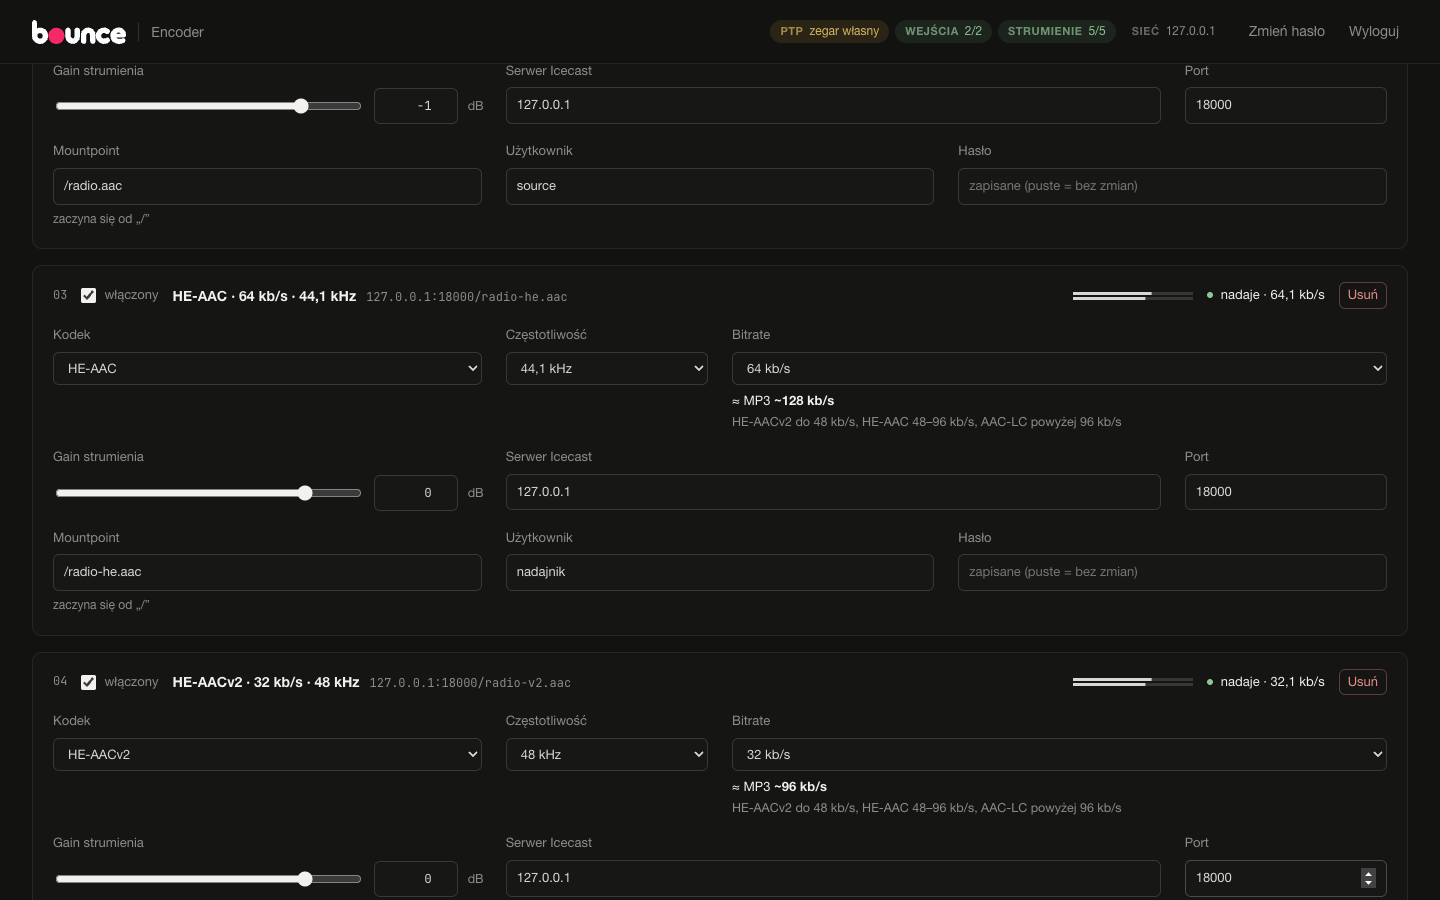
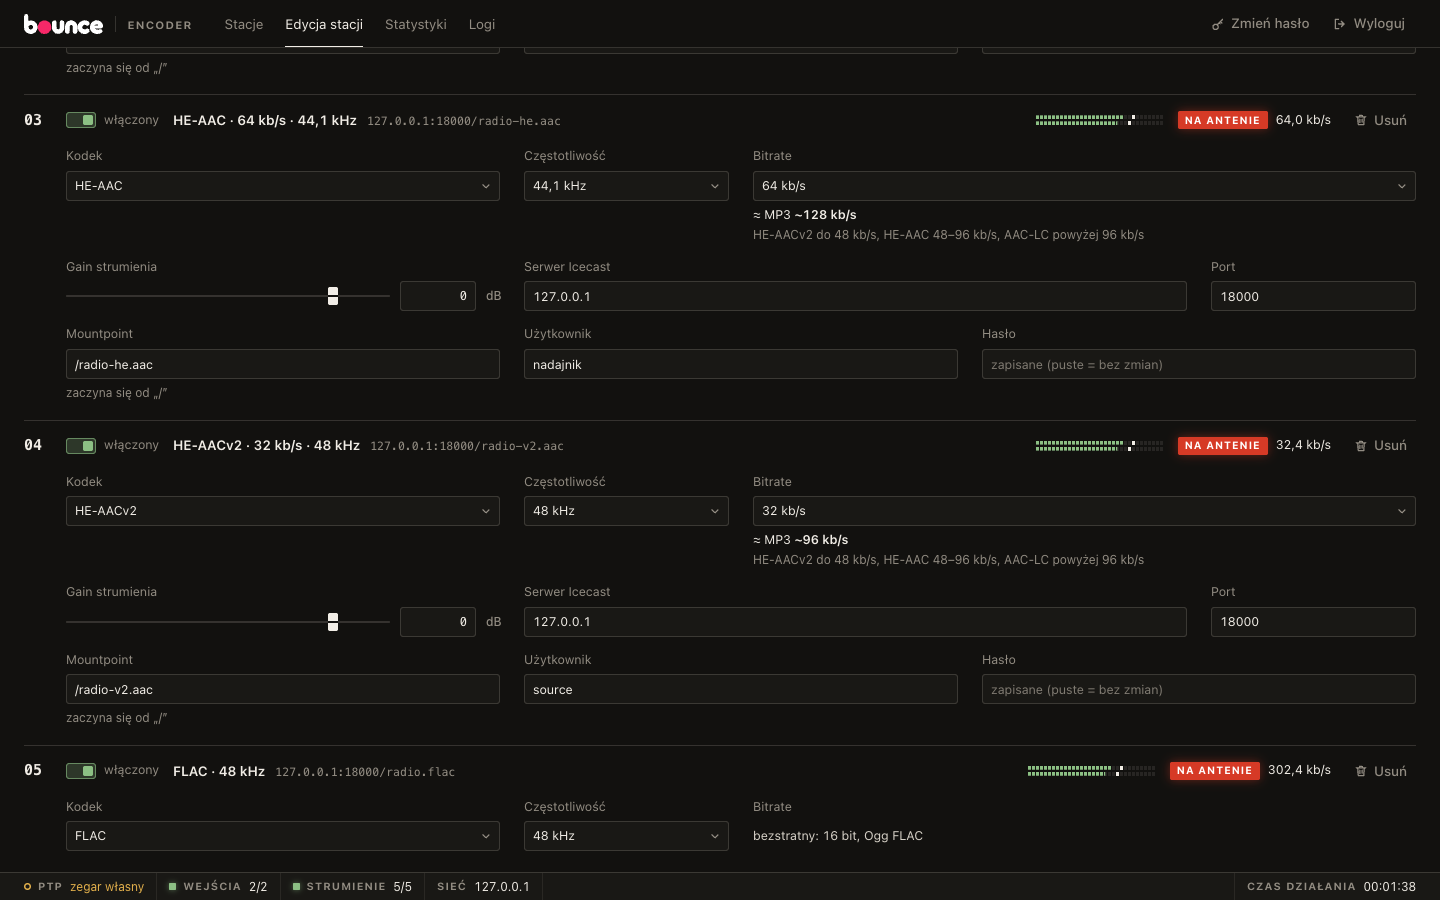
BounceAES Master 1.2.3 and Bounce Encoder 1.0.2: new panel look
BounceAES Master 1.2.3 in CMakeLists.txt, core constants, bridge, tray and
service .rc and the NSIS installer; Bounce Encoder 1.0.2 in version.hpp,
the Icecast User-Agent, encoder .rc, tray .rc and .manifest, the NSIS
installer and the version tests. README, INSTALL.md and ENCODER-INSTALL.md
say what is new (the new panel look, no change in behaviour) and now point
to the bottom status strip; the four encoder screenshots in
docs/images/encoder/ show the new panel.

diff --git a/tests/test_encoder_http.cpp b/tests/test_encoder_http.cpp
@@ -158,7 +158,7 @@ TEST_CASE("encoder HTTP: login, sessions and 401 without a session") {
   const json h = json::parse(health->body);
   CHECK(h["service"] == "ok");
   CHECK(h["product"] == "Bounce Encoder");
-  CHECK(h["version"] == "1.0.1");
+  CHECK(h["version"] == "1.0.2");
 
   const json state = json::parse(f.client->Get("/api/auth-state")->body);
   CHECK(state["password_set"] == false);
@@ -552,7 +552,7 @@ TEST_CASE("encoder HTTP: status of stations, inputs, streams and PTP") {
       },
       10000));
   CHECK(s["running"] == true);
-  CHECK(s["version"] == "1.0.1");
+  CHECK(s["version"] == "1.0.2");
   CHECK(s["ptp"]["enabled"] == false);
   CHECK(s["ptp"]["state"] == "disabled");
   CHECK(s["ptp"]["free_run"] == true);

diff --git a/encoder/src/icecast_client.cpp b/encoder/src/icecast_client.cpp
@@ -30,7 +30,7 @@ constexpr int kRetryResetMs = 10000;       // streaming this long starts the ret
 constexpr int kSendStallMs = 10000;        // no byte accepted by the socket: the server is dead
 constexpr int kSliceMs = 50;               // longest wait before stopping_ is checked again
 constexpr size_t kMaxResponseHead = 8192;
-constexpr const char* kUserAgent = "Bounce Encoder/1.0.1";
+constexpr const char* kUserAgent = "Bounce Encoder/1.0.2";
 
 constexpr const char* kErrNoName = "nie można znaleźć serwera ";  // + host
 constexpr const char* kErrNoAnswer = "serwer nie odpowiada";

diff --git a/core/include/bam/constants.hpp b/core/include/bam/constants.hpp
@@ -25,6 +25,6 @@ inline constexpr const char* kPtpGroup = "224.0.1.129";
 inline constexpr int kMulticastTtl = 15;
 
 inline constexpr const char* kProductName = "BounceAES Master";
-inline constexpr const char* kVersion = "1.2.2";
+inline constexpr const char* kVersion = "1.2.3";
 
 }  // namespace bam

diff --git a/encoder/include/bam/encoder/version.hpp b/encoder/include/bam/encoder/version.hpp
@@ -4,6 +4,6 @@
 namespace bam::encoder {
 
 inline constexpr const char* kEncoderProductName = "Bounce Encoder";
-inline constexpr const char* kEncoderVersion = "1.0.1";
+inline constexpr const char* kEncoderVersion = "1.0.2";
 
 }  // namespace bam::encoder

diff --git a/docs/ENCODER-INSTALL.md b/docs/ENCODER-INSTALL.md
@@ -116,7 +116,7 @@ Lista pokazuje dla każdej stacji:
 - przełącznik włączenia: działa od razu, bez zapisywania. Wyłączona stacja rozłącza wszystkie swoje strumienie;
 - stan („działa” i czas działania), miernik sygnału stacji i szczyt w dBFS;
 - wejścia: nazwa, adres strumienia AES67, gain i opóźnienie, miernik, stan („sygnał”, „brak sygnału” albo błąd);
-- strumienie: kodek, bitrate i częstotliwość, serwer i mountpoint, gain, miernik, stan („nadaje” z bitrate'em, „łączenie…”, komunikat błędu z rozdziału 9).
+- strumienie: kodek, bitrate i częstotliwość, serwer i mountpoint, gain, miernik, stan (lampka **NA ANTENIE** z bitrate'em, „łączenie…”, komunikat błędu z rozdziału 9).
 
 **Dodaj stację** otwiera edytor nowej stacji. **Edytuj** otwiera edytor istniejącej, **Usuń** usuwa stację od razu (po potwierdzeniu) i rozłącza jej strumienie.
 
@@ -257,7 +257,7 @@ Po błędzie strumień próbuje ponownie po 1, 2, 5 i 10 s, potem co 10 s, bez k
 
 ## 11. PTP, sieć i strojenie Windows
 
-- Bounce Encoder jest zawsze **PTP slave**: podąża za grandmasterem w wybranej domenie i nigdy nie nadaje zegara. Pasek u góry panelu pokazuje „PTP: zsynchronizowany”, „synchronizacja…” albo „zegar własny”.
+- Bounce Encoder jest zawsze **PTP slave**: podąża za grandmasterem w wybranej domenie i nigdy nie nadaje zegara. Pasek stanu na dole panelu pokazuje „PTP: zsynchronizowany”, „synchronizacja…” albo „zegar własny”.
 - **Bez synchronizacji PTP odbiór zwykle nie działa.** Bez mastera (albo zanim zegar się zsynchronizuje) program liczy czas mediów z własnego zegara komputera (czas systemowy w skali TAI, „zegar własny”). Pakiety AES67 niosą znaczniki czasu na zegarze nadawcy, a wejście przyjmuje tylko pakiety, których czas wypada w oknie od „teraz − opóźnienie odbioru” do „teraz + 0,5 s”. Nadawca na innym zegarze (urządzenie zsynchronizowane z grandmasterem, którego Bounce Encoder nie widzi, albo z własnym zegarem) jest więc odrzucany w całości: w Statystykach rosną **Przepełnienia**, wejście ma stan „brak sygnału”, a stacja nadaje ciszę.
 - Zegar własny działa tylko wtedy, gdy nadawca liczy czas tym samym zegarem, np. BounceAES Master bez PTP (też na zegarze własnym) na komputerze z czasem z NTP, a różnica czasu obu komputerów stale mieści się w tym oknie: nadawca najwyżej o opóźnienie odbioru za Bounce Encoderem i najwyżej 0,5 s przed nim. Nawet wtedy przy długiej pracy mogą się zdarzyć pojedyncze uzupełnienia albo odrzucenia pakietów (widoczne w Statystykach). Do pracy na antenie potrzebny jest PTP.
 - Gdy pasek pokazuje „zegar własny”, choć master jest w sieci, sprawdź: domenę PTP (Ustawienia… i grandmaster muszą mieć tę samą), wybraną kartę sieciową AoIP (Ustawienia…: zła karta to brak komunikatów PTP), klienta PTP Windows (w32time, poniżej) i zaporę dla portów UDP 319/320.
@@ -314,6 +314,8 @@ Licencja FDK AAC nie jest zgodna z GPL, dlatego licencja Bounce Encoder ma dodat
 ## 15. Aktualizacja, odinstalowanie, podpisywanie
 
 **Aktualizacja:** uruchom nowy instalator. Zatrzyma usługę i ikonę, wymieni pliki i uruchomi usługę ponownie. Konfiguracja zostaje.
+
+**Co nowego w 1.0.2:** nowy wygląd panelu, wspólny z BounceAES Master 1.2.3; bez zmian w działaniu. Stan usługi (PTP, wejścia, strumienie, karta sieciowa, czas działania) jest w pasku stanu na dole, nadający strumień ma lampkę **NA ANTENIE**, mierniki są segmentowe, ze skalą dBFS i zapamiętanym szczytem.
 
 **Co nowego w 1.0.1:** blokada logowania działa też przy równoległych próbach: hasła sprawdzane w tej samej chwili liczą się do limitu, więc wiele prób wysłanych naraz nie obejdzie blokady po 5 błędnych hasłach (ani ogólnego limitu 20 błędnych haseł z sieci na minutę).
 

diff --git a/README.md b/README.md
@@ -51,6 +51,10 @@ Instrukcja: [docs/INSTALL.md](docs/INSTALL.md). W skrócie:
 5. W zakładce **Routing** połącz źródła z celami.
 6. W mAirList wybierz sterownik ASIO **BounceAES Master**.
 
+## Co nowego w 1.2.3
+
+Nowy wygląd panelu, bez zmian w działaniu: zakładki w górnym pasku, stan usługi (PTP, ASIO, Audio Windows, wyjścia, subskrypcje, karta sieciowa, czas działania) w pasku stanu na dole, mierniki LED ze skalą dBFS i zapamiętanym szczytem, przełączniki zamiast pól wyboru. Wygląd jest wspólny z Bounce Encoder 1.0.2 (`panel-common/common.css`).
+
 ## Co nowego w 1.2.2
 
 Bezpieczeństwo panelu, z zabezpieczeniami przetestowanymi w Bounce Encoder 1.0 (dźwięk, ASIO i routing bez zmian): jedno żądanie na połączenie, treść żądań tylko jako JSON (do 1 MB), pierwsze hasło tylko z `127.0.0.1`/`localhost`, blokada po 5 nieudanych logowaniach zamiast spowalniania, zmiana hasła wylogowuje inne sesje, a podgląd na żywo kończy się z sesją. Własne skrypty korzystające z API muszą wysyłać JSON z `Content-Type: application/json` (panel i ikona w zasobniku już to robią). Szczegóły: [docs/INSTALL.md](docs/INSTALL.md) (rozdziały 4 i 10).
@@ -64,6 +68,7 @@ Osobny program z tego samego repozytorium (wspólny rdzeń AES67/PTP): **enkoder
 - Panel WWW z logowaniem (port **8070**): stacje z miernikami, edycja, odpowiedniki bitrate'ów AAC ↔ MP3, statystyki, logi. Usługa Windows `BounceEncoder`, ikona w zasobniku, instalator `BounceEncoder-setup.exe`.
 - Bez processingu, RDS i metadanych; PTP tylko jako slave.
 - Wersja 1.0.1: blokada logowania działa też przy równoległych próbach (wspólna poprawka z BounceAES Master 1.2.2).
+- Wersja 1.0.2: nowy wygląd panelu, wspólny z BounceAES Master 1.2.3 (lampka „NA ANTENIE” przy nadającym strumieniu, mierniki LED, pasek stanu na dole); bez zmian w działaniu.
 
 Instrukcja: [docs/ENCODER-INSTALL.md](docs/ENCODER-INSTALL.md), testy i odbiór: [docs/ENCODER-TESTING.md](docs/ENCODER-TESTING.md), specyfikacja: [docs/superpowers/specs/2026-11-05-bounce-encoder-design.md](docs/superpowers/specs/2026-11-05-bounce-encoder-design.md). Licencja Bounce Encoder (GPLv3) ma dodatkowe uprawnienie na połączenie z fdk-aac; w Bounce instalator z AAC jest bez ograniczeń, a przed przekazaniem poza firmę trzeba sprawdzić patenty AAC ([LICENSING.md](LICENSING.md)).
 
@@ -98,6 +103,7 @@ Panel pokazuje logotyp Bounce ([panel/logo.svg](panel/logo.svg), biała wersja) 
 | `tray/` | aplikacja w zasobniku |
 | `bridge/` | BounceAES Audio Bridge: WASAPI, przechwytywanie procesów, resampling |
 | `panel/` | panel WWW (HTML/CSS/JS) |
+| `panel-common/` | arkusz stylów wspólny dla paneli BounceAES Master i Bounce Encoder |
 | `encoder/` | Bounce Encoder: kodeki, bufor opóźnienia, miks stacji, klient Icecast, silnik, API i panel WWW (`encoder/panel/`) |
 | `encoder_service/`, `encoder_tray/` | Bounce Encoder: usługa Windows / `--console` i ikona w zasobniku |
 | `tools/` | `bounceaes-test` (test pętli), `ptp-sim` (testowy master PTP) |
